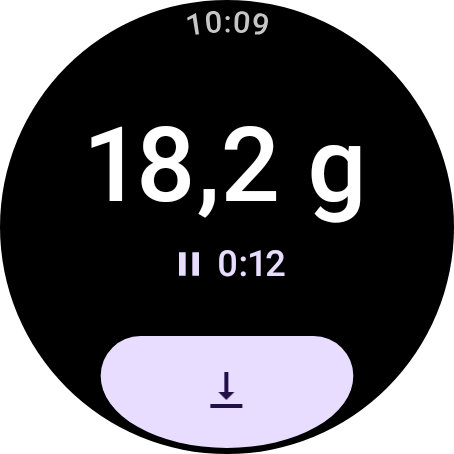
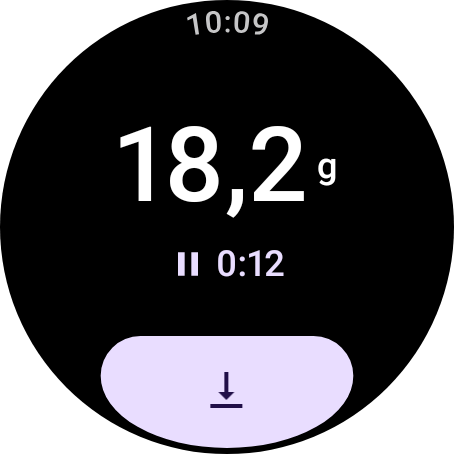
fix: fit watch weights in the round safe area

Changed region(s): [[0.185, 0.2775, 0.8018, 0.4934], [0.4626, 0.5551, 0.6476, 0.6167], [0.4009, 0.5551, 0.4317, 0.6167]]

diff --git a/wear/src/main/java/io/github/mateuxlucax/caparao/wear/WatchScreen.kt b/wear/src/main/java/io/github/mateuxlucax/caparao/wear/WatchScreen.kt
@@ -3,10 +3,12 @@ package io.github.mateuxlucax.caparao.wear
 import androidx.compose.foundation.combinedClickable
 import androidx.compose.foundation.layout.Arrangement
 import androidx.compose.foundation.layout.Box
+import androidx.compose.foundation.layout.BoxWithConstraints
 import androidx.compose.foundation.layout.Column
 import androidx.compose.foundation.layout.Row
 import androidx.compose.foundation.layout.Spacer
 import androidx.compose.foundation.layout.fillMaxSize
+import androidx.compose.foundation.layout.fillMaxWidth
 import androidx.compose.foundation.layout.padding
 import androidx.compose.foundation.layout.size
 import androidx.compose.foundation.layout.width
@@ -17,11 +19,14 @@ import androidx.compose.ui.Modifier
 import androidx.compose.ui.draw.clip
 import androidx.compose.ui.graphics.Color
 import androidx.compose.ui.platform.LocalContext
+import androidx.compose.ui.platform.LocalDensity
 import androidx.compose.ui.res.painterResource
 import androidx.compose.ui.res.stringResource
 import androidx.compose.ui.semantics.semantics
+import androidx.compose.ui.semantics.contentDescription
 import androidx.compose.ui.semantics.stateDescription
 import androidx.compose.ui.text.font.FontWeight
+import androidx.compose.ui.text.rememberTextMeasurer
 import androidx.compose.ui.text.style.TextAlign
 import androidx.compose.ui.unit.dp
 import androidx.compose.ui.unit.sp
@@ -114,8 +119,17 @@ private fun Readout(snapshot: WatchSnapshot, onTimer: () -> Unit, onReset: () ->
             WatchState.DONE -> stringResource(R.string.state_done)
             else -> snapshot.guide?.let { stepLabel(it) } ?: WatchFormat.flow(snapshot.flowGramsPerSecond)
         }
-        if (label != null) Text(label, style = MaterialTheme.typography.labelMedium, color = MaterialTheme.colorScheme.onSurfaceVariant)
-        Text(WatchFormat.grams(snapshot.weightGrams), fontSize = 52.sp, fontWeight = FontWeight.Medium, maxLines = 1)
+        if (label != null) {
+            Text(
+                label,
+                modifier = Modifier.fillMaxWidth(),
+                style = MaterialTheme.typography.labelMedium,
+                color = MaterialTheme.colorScheme.onSurfaceVariant,
+                textAlign = TextAlign.Center,
+                maxLines = 2,
+            )
+        }
+        WeightReadout(snapshot.weightGrams)
         val time = WatchFormat.time(snapshot.elapsedMs)
         val timeStyle = MaterialTheme.typography.titleLarge
         if (snapshot.state == WatchState.SCALE) {
@@ -145,6 +159,40 @@ private fun Readout(snapshot: WatchSnapshot, onTimer: () -> Unit, onReset: () ->
         val due = snapshot.guide?.dueInMs?.takeIf { snapshot.state == WatchState.BREWING && it > 0 }
         if (due != null) {
             Text(stringResource(R.string.guide_due_in, WatchFormat.seconds(due)), style = MaterialTheme.typography.labelMedium, color = MaterialTheme.colorScheme.onSurfaceVariant)
+        }
+    }
+}
+
+/** Keeps the localized number and unit together inside the round screen's safe width. */
+@Composable
+private fun WeightReadout(weightGrams: Float) {
+    val number = WatchFormat.weight(weightGrams)
+    val unit = stringResource(R.string.unit_grams)
+    val spokenWeight = stringResource(R.string.weight_grams, number, unit)
+    val density = LocalDensity.current
+    val textMeasurer = rememberTextMeasurer()
+    BoxWithConstraints(Modifier.fillMaxWidth(), contentAlignment = Alignment.Center) {
+        val numberStyle = MaterialTheme.typography.displayLarge.copy(
+            fontSize = MAX_WEIGHT_SP.sp,
+            fontWeight = FontWeight.Medium,
+        )
+        val unitStyle = MaterialTheme.typography.titleLarge
+        val numberWidth = textMeasurer.measure(number, style = numberStyle, maxLines = 1, softWrap = false).size.width
+        val unitWidth = textMeasurer.measure(unit, style = unitStyle, maxLines = 1, softWrap = false).size.width
+        val availableNumberWidth = with(density) { maxWidth.toPx() - 6.dp.toPx() } - unitWidth
+        val fontSize = (MAX_WEIGHT_SP * availableNumberWidth / numberWidth).coerceIn(MIN_WEIGHT_SP, MAX_WEIGHT_SP)
+        Row(
+            Modifier.semantics(mergeDescendants = true) { contentDescription = spokenWeight },
+            verticalAlignment = Alignment.CenterVertically,
+        ) {
+            Text(
+                number,
+                style = numberStyle.copy(fontSize = fontSize.sp),
+                maxLines = 1,
+                softWrap = false,
+            )
+            Spacer(Modifier.width(4.dp))
+            Text(unit, style = MaterialTheme.typography.titleLarge)
         }
     }
 }
@@ -190,3 +238,5 @@ private fun paceColor(pace: Long?): Color = when {
 private val AHEAD = Color(0xFFFFB300)
 
 private const val ON_TIME_MS = 5_000L
+private const val MIN_WEIGHT_SP = 36f
+private const val MAX_WEIGHT_SP = 52f

diff --git a/wear/src/test/java/io/github/mateuxlucax/caparao/wear/WatchScreenshotsTest.kt b/wear/src/test/java/io/github/mateuxlucax/caparao/wear/WatchScreenshotsTest.kt
@@ -9,7 +9,9 @@ import androidx.compose.ui.Modifier
 import androidx.compose.ui.draw.clip
 import androidx.compose.ui.graphics.Color
 import androidx.compose.ui.test.junit4.v2.createComposeRule
+import androidx.compose.ui.test.onNodeWithContentDescription
 import androidx.compose.ui.test.onRoot
+import androidx.compose.ui.unit.dp
 import androidx.test.ext.junit.runners.AndroidJUnit4
 import androidx.wear.compose.material3.TimeSource
 import com.github.takahirom.roborazzi.captureRoboImage
@@ -19,6 +21,7 @@ import io.github.mateuxlucax.caparao.watch.WatchState
 import io.github.mateuxlucax.caparao.watch.WatchStepKind
 import org.junit.Rule
 import org.junit.Test
+import org.junit.Assert.assertTrue
 import org.junit.runner.RunWith
 import org.robolectric.annotation.Config
 import org.robolectric.annotation.GraphicsMode
@@ -63,6 +66,14 @@ abstract class WatchScreenshotsTest(private val lang: String) {
             Box(Modifier.fillMaxSize().background(Color.White).clip(CircleShape)) {
                 WatchScreen(snapshot, onTare = {}, onTimer = {}, onReset = {}, timeSource = FixedTime)
             }
+        }
+        if (snapshot.state != WatchState.DISCONNECTED) {
+            val weightNode = compose.onNodeWithContentDescription(WatchFormat.grams(snapshot.weightGrams))
+            weightNode.assertExists()
+            assertTrue(
+                "weight number and unit stay within the round screen safe width",
+                weightNode.fetchSemanticsNode().boundsInRoot.width <= with(compose.density) { 171.dp.toPx() },
+            )
         }
         compose.onRoot().captureRoboImage("../docs/screenshots/watch/$lang/$name.png")
     }

diff --git a/wear/src/main/java/io/github/mateuxlucax/caparao/wear/WatchFormat.kt b/wear/src/main/java/io/github/mateuxlucax/caparao/wear/WatchFormat.kt
@@ -4,7 +4,9 @@ import java.util.Locale
 
 /** Numbers on the watch, formatted like the phone's: one decimal in the locale's style, time as m:ss. */
 object WatchFormat {
-    fun grams(value: Float, locale: Locale = Locale.getDefault()): String = String.format(locale, "%.1f g", value.normalized())
+    fun weight(value: Float, locale: Locale = Locale.getDefault()): String = String.format(locale, "%.1f", value.normalized())
+
+    fun grams(value: Float, locale: Locale = Locale.getDefault()): String = "${weight(value, locale)} g"
 
     fun flow(value: Float, locale: Locale = Locale.getDefault()): String = String.format(locale, "%.1f g/s", value.normalized())
 

diff --git a/wear/src/test/java/io/github/mateuxlucax/caparao/wear/WatchFormatTest.kt b/wear/src/test/java/io/github/mateuxlucax/caparao/wear/WatchFormatTest.kt
@@ -11,6 +11,8 @@ class WatchFormatTest {
     fun weightAndFlowUseTheLocale() {
         assertEquals("36.4 g", WatchFormat.grams(36.43f, Locale.US))
         assertEquals("36,4 g", WatchFormat.grams(36.43f, brazil))
+        assertEquals("36.4", WatchFormat.weight(36.43f, Locale.US))
+        assertEquals("36,4", WatchFormat.weight(36.43f, brazil))
         assertEquals("1,8 g/s", WatchFormat.flow(1.8f, brazil))
         assertEquals("0.0 g", WatchFormat.grams(-0.04f, Locale.US))
         assertEquals("-0.3 g", WatchFormat.grams(-0.3f, Locale.US))
